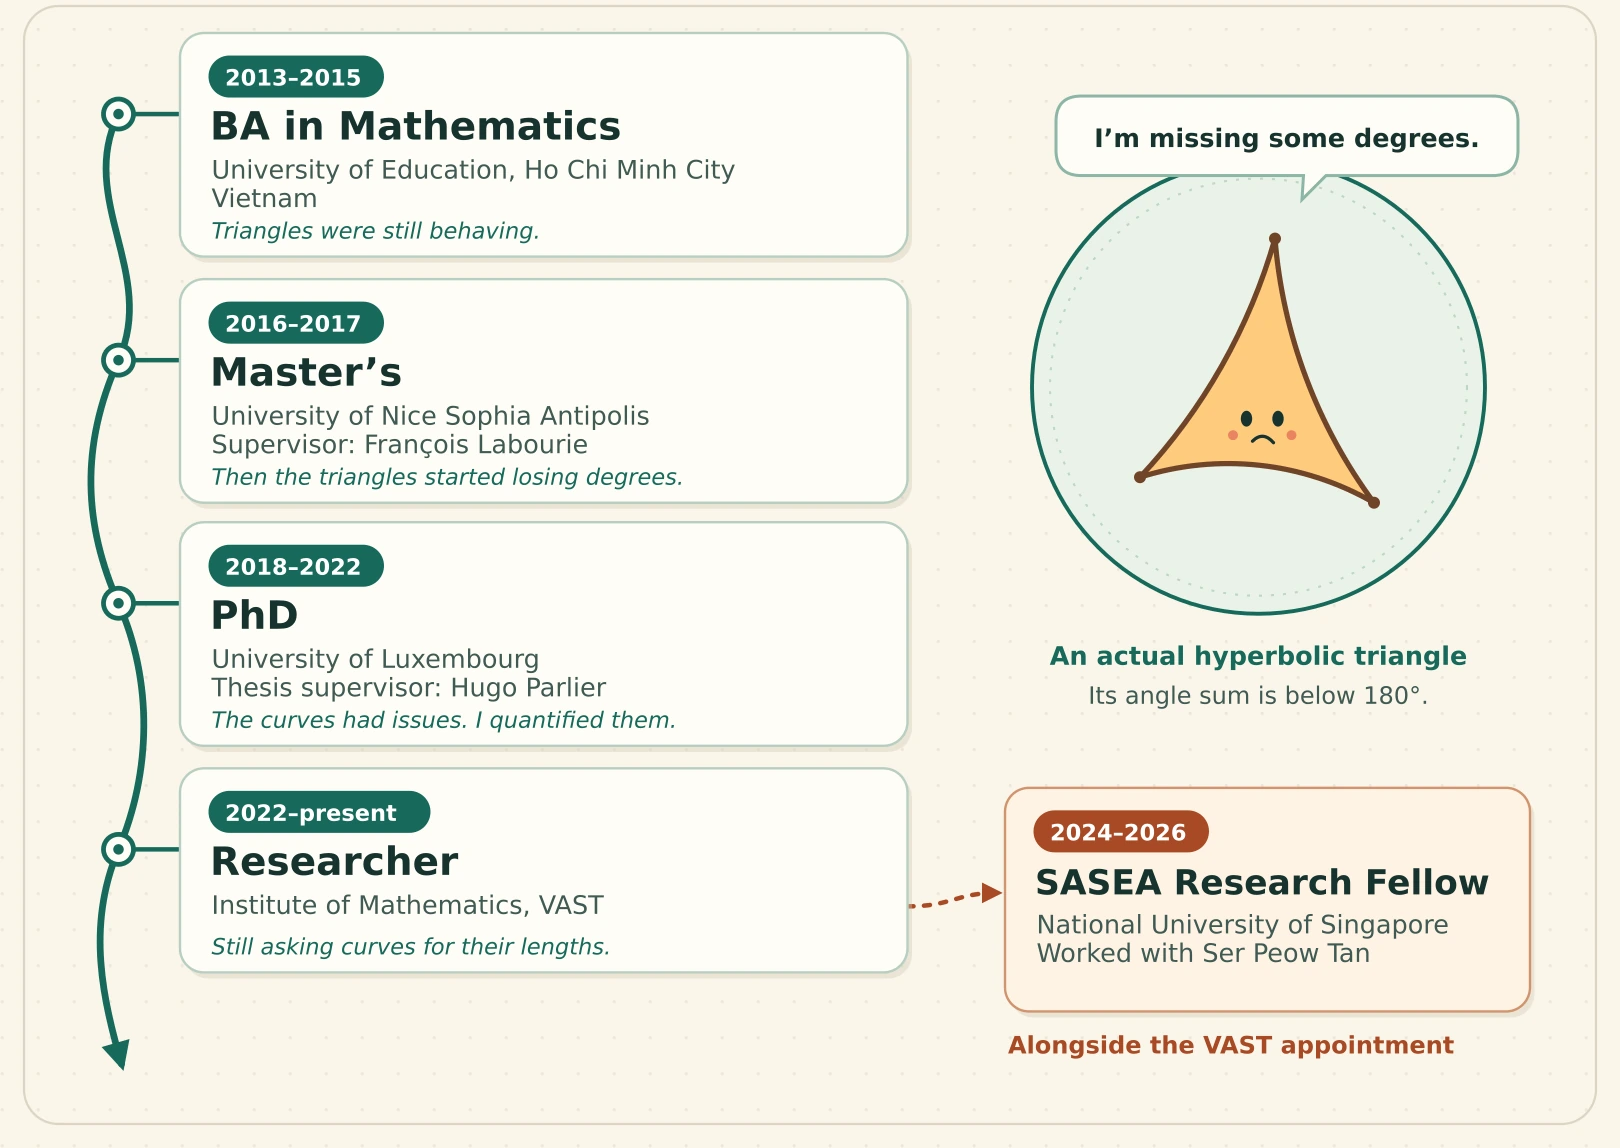
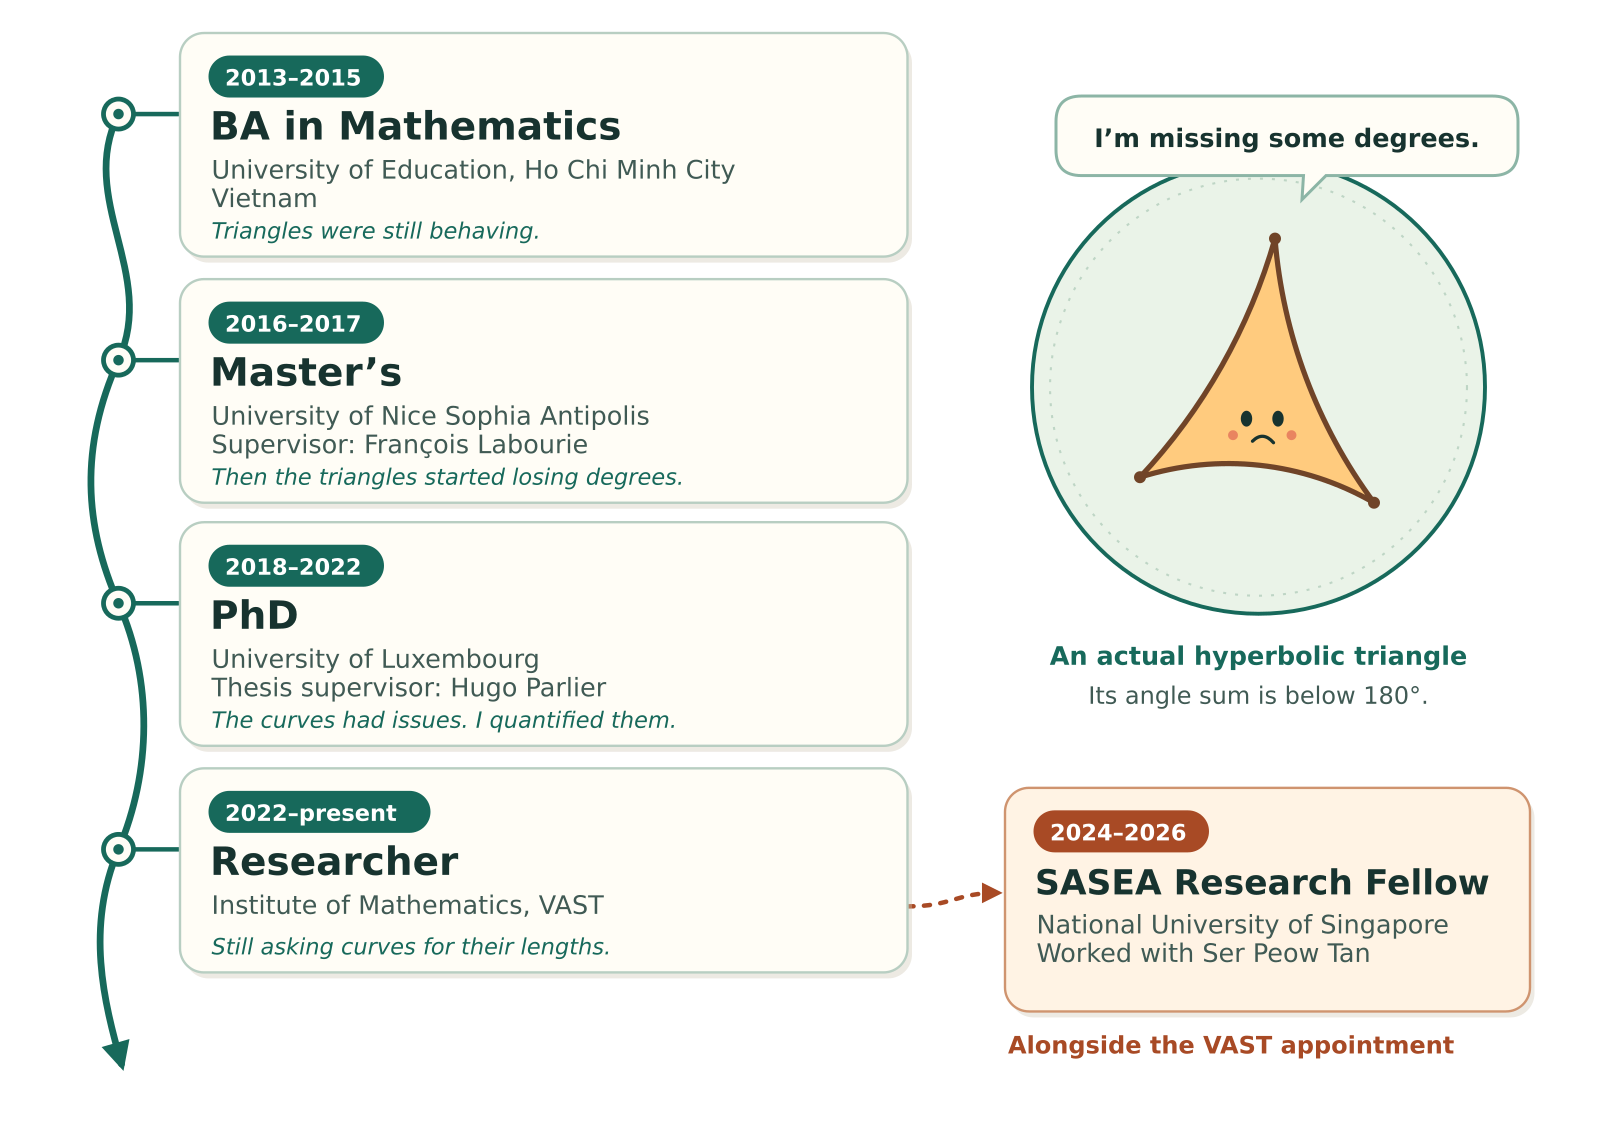
Blend the academic diagram into the Bio page

diff --git a/docs/index.html b/docs/index.html
@@ -84,8 +84,8 @@
    </script>
   </div>
   <figure style="margin:0 0 16px">
-   <a href="assets/minh-academic-path.webp" aria-label="Open the academic timeline at full size" style="display:block">
-    <img src="assets/minh-academic-path.webp" width="1620" height="1148" alt="Illustrated academic timeline from Ho Chi Minh City through Nice and Luxembourg to VAST, with a Singapore fellowship branching off the ongoing VAST appointment. A hyperbolic triangle says it is missing some degrees." style="display:block;width:100%;height:auto" loading="lazy" decoding="async">
+   <a href="assets/minh-academic-path.webp?v=de99f80f1b09" aria-label="Open the academic timeline at full size" style="display:block">
+    <img src="assets/minh-academic-path.webp?v=de99f80f1b09" width="1620" height="1148" alt="Illustrated academic timeline from Ho Chi Minh City through Nice and Luxembourg to VAST, with a Singapore fellowship branching off the ongoing VAST appointment. A hyperbolic triangle says it is missing some degrees." style="display:block;width:100%;height:auto" loading="lazy" decoding="async">
    </a>
   </figure>
   <details>

diff --git a/scripts/build_site.py b/scripts/build_site.py
@@ -145,8 +145,8 @@ def main():
    </script>
   </div>
   <figure style="margin:0 0 16px">
-   <a href="assets/minh-academic-path.webp" aria-label="Open the academic timeline at full size" style="display:block">
-    <img src="assets/minh-academic-path.webp" width="1620" height="1148" alt="Illustrated academic timeline from Ho Chi Minh City through Nice and Luxembourg to VAST, with a Singapore fellowship branching off the ongoing VAST appointment. A hyperbolic triangle says it is missing some degrees." style="display:block;width:100%;height:auto" loading="lazy" decoding="async">
+   <a href="assets/minh-academic-path.webp?v={asset_revision('minh-academic-path.webp')}" aria-label="Open the academic timeline at full size" style="display:block">
+    <img src="assets/minh-academic-path.webp?v={asset_revision('minh-academic-path.webp')}" width="1620" height="1148" alt="Illustrated academic timeline from Ho Chi Minh City through Nice and Luxembourg to VAST, with a Singapore fellowship branching off the ongoing VAST appointment. A hyperbolic triangle says it is missing some degrees." style="display:block;width:100%;height:auto" loading="lazy" decoding="async">
    </a>
   </figure>
   <details>
